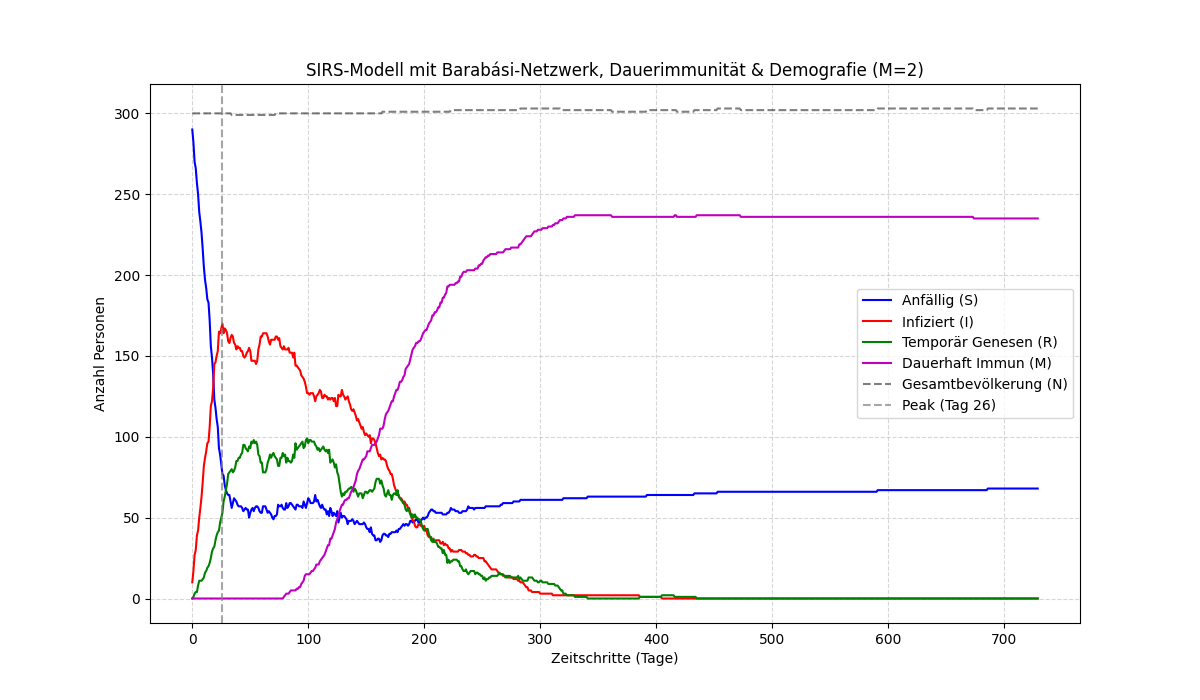
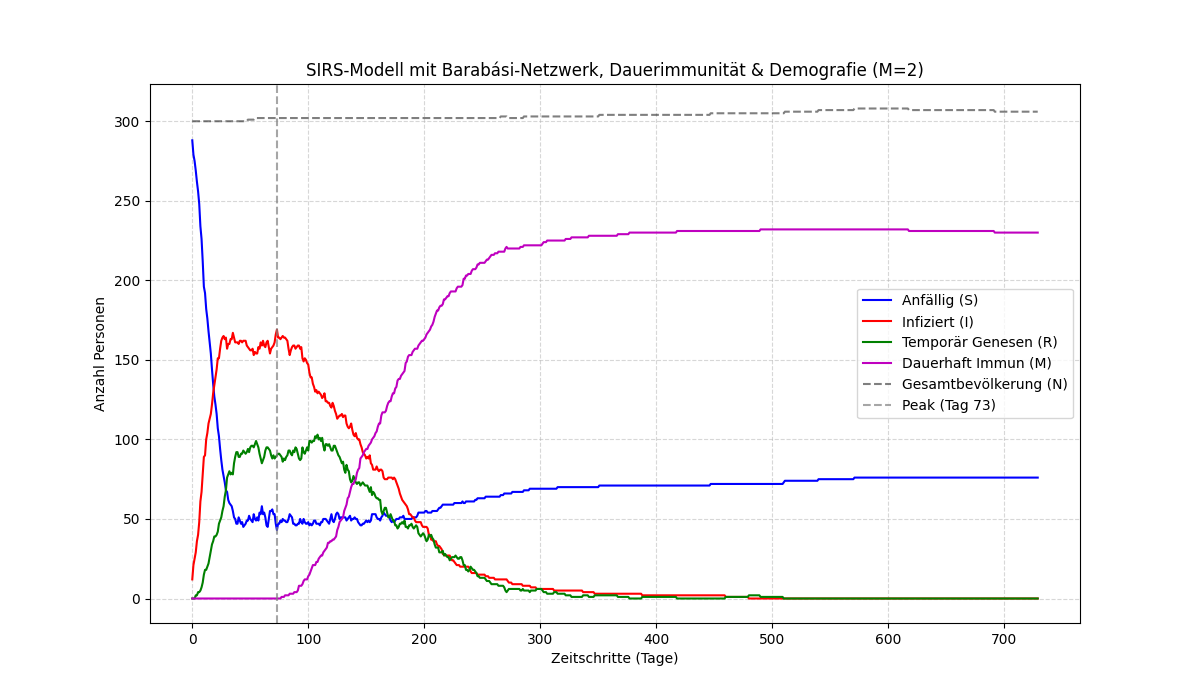
Neue Grafiken + kleine Plot Veränderung

diff --git a/2.BarabasiSIR.py b/2.BarabasiSIR.py
@@ -113,7 +113,7 @@ for t in range(ZEITSCHRITTE):
     stats_S.append(S_count)
     stats_I.append(I_count)
     stats_R.append(R_count)
-    stats_N.append(ANZAHL_PERSONEN)
+    stats_N.append(len(population))
     status_history.append([p.status for p in population])
 
     if I_count > max_infizierte:
@@ -246,7 +246,7 @@ plt.axvline(
     alpha=0.7,
 )
 
-plt.title(f"SIRS-Modell im Barabási-Albert-Netzwerk (M={M_KANTEN})")
+plt.title(f"SIRS-Modell im Barabási-Albert-Netzwerk (M={M_KANTEN}) - Daten aus BarabasiSIR.py")
 plt.xlabel("Zeitschritte (Tage)")
 plt.ylabel("Anzahl Personen")
 plt.grid(True, linestyle="--", alpha=0.5)